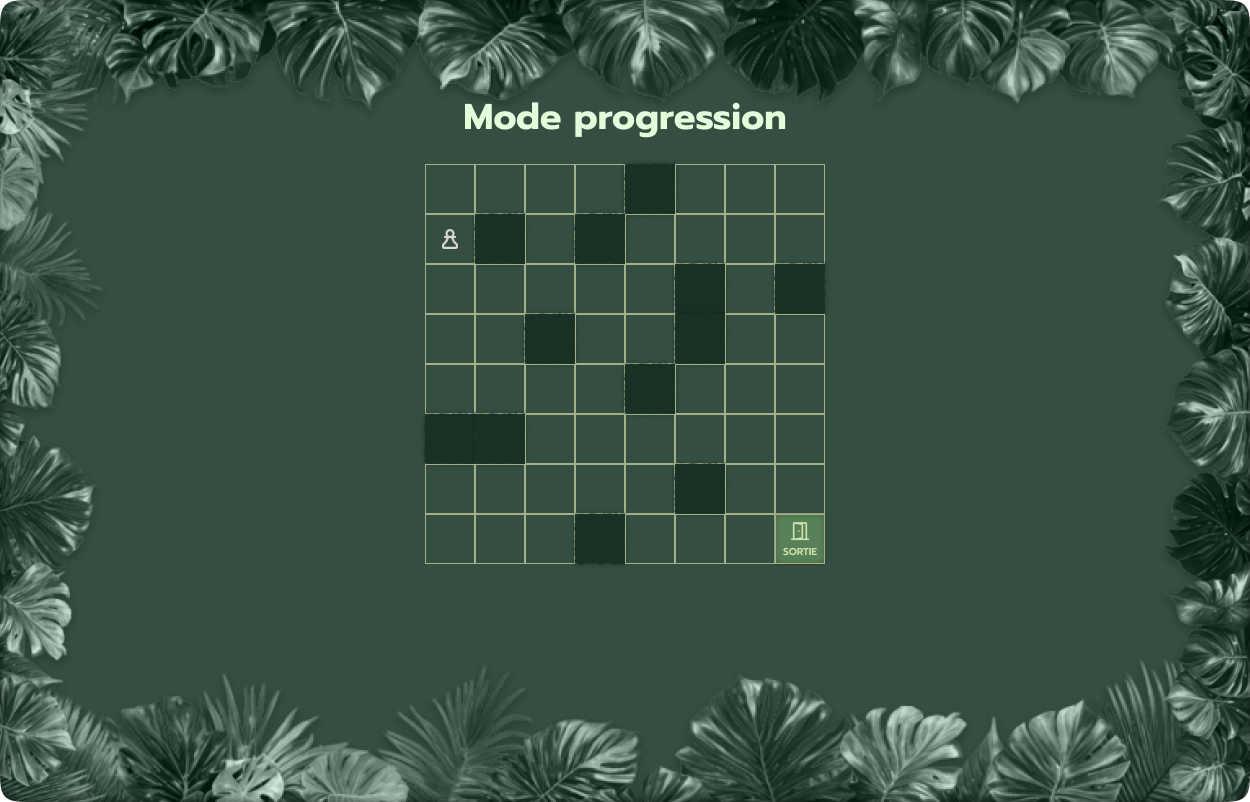
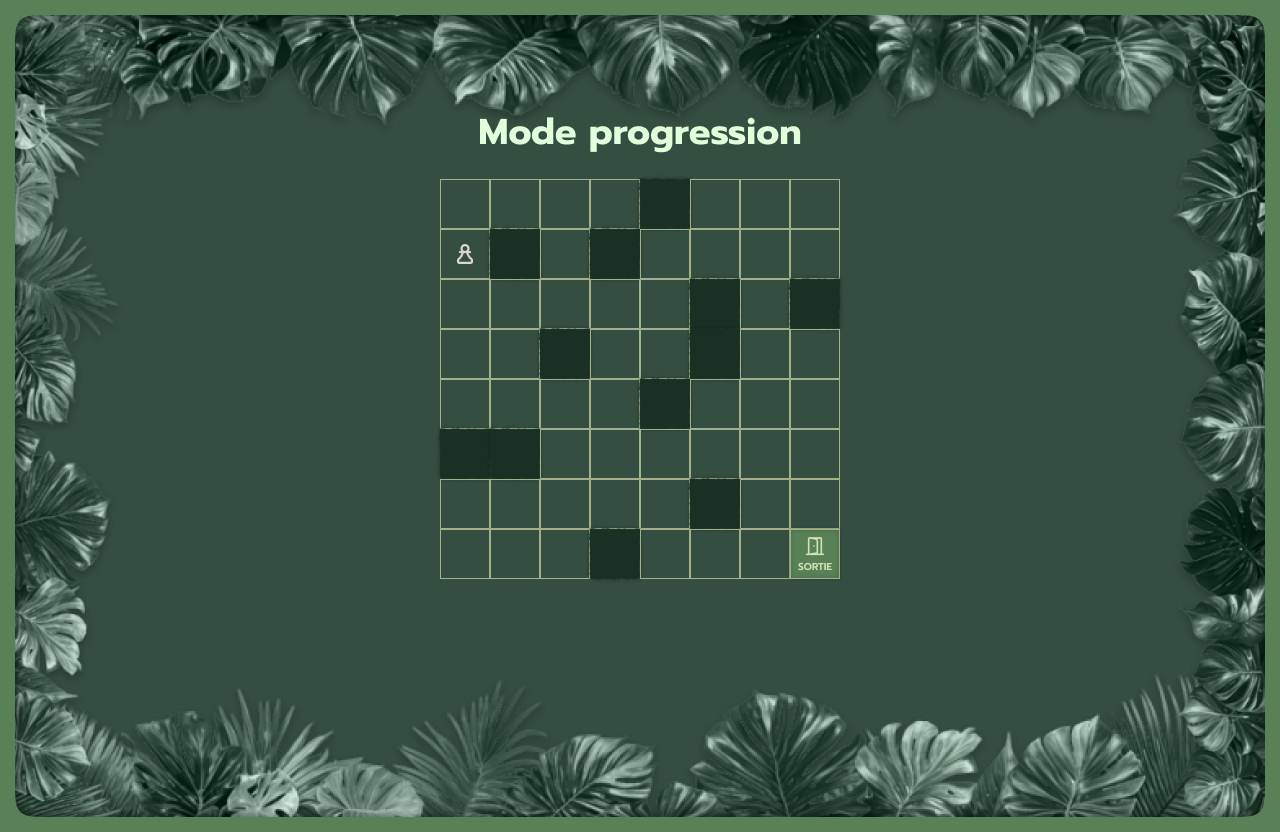
Update des mockups
Sur figma, l'export aurait du être fait sur le frame entier et pas seulement que la partie intérieure.

De plus: j'ai supprimé droite(3) vu que c'est la meme image que droite(1) ducoup notre repo est moins lourd

Changed region(s): [[0.0, 0.0, 1.0, 1.0]]

diff --git a/analyse.md b/analyse.md
@@ -135,7 +135,7 @@ Scénario nominal :
 Scénario alternatif : 
 1. le système ne valide pas le futur déplacement du joueur (retour étape 1 scénario nominal).
 
-![image](img/droite(3).png)
+![image](img/droite(1).png) <!-- Fun fact : droite(1) et droite(3) sont les memes images ducoup pas besoin de les inclure deux fois -->
 
 ### Diagramme de classes
 
